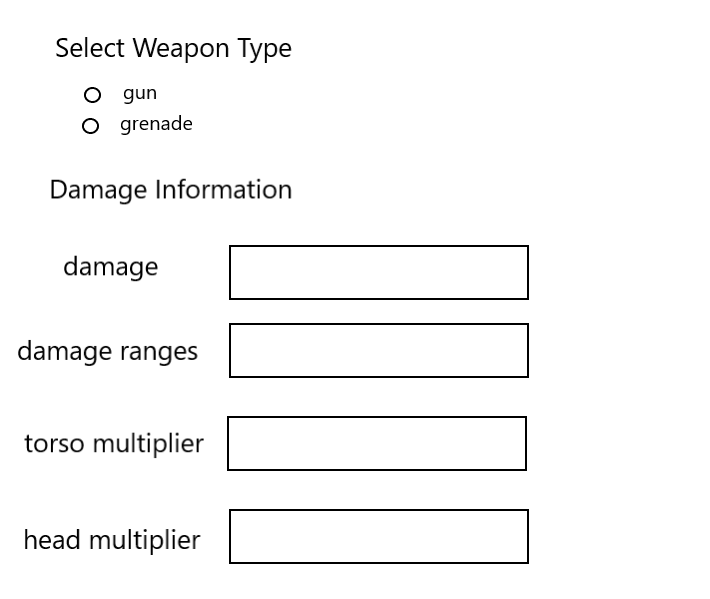
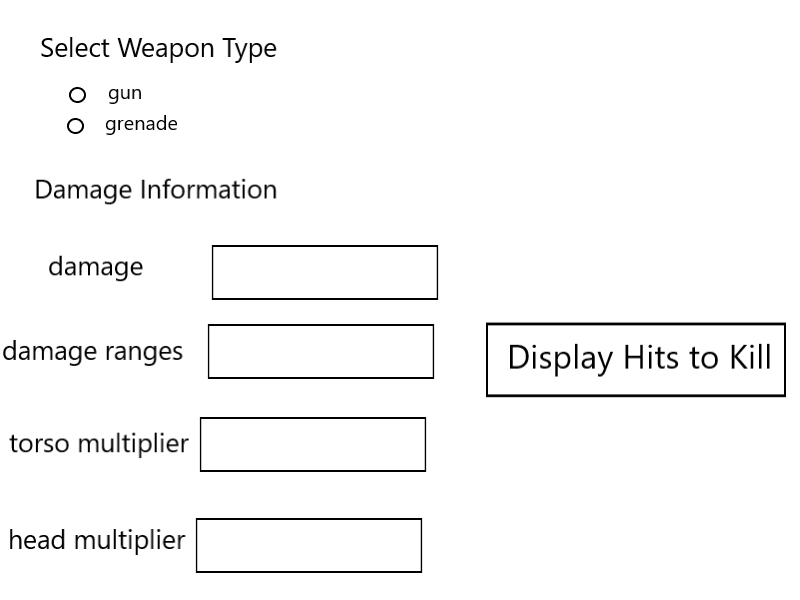
Created the main window for the GUI in main_GUI.py
Also changed the png which is a rough design for the main window. Added a button to display hits to kill.

As more features are added to this project, more buttons for options will be added with it.

diff --git a/PF_DamageRangesCalculator/PF_Packages/GUI/main_GUI.py b/PF_DamageRangesCalculator/PF_Packages/GUI/main_GUI.py
@@ -1,10 +1,39 @@
-import tkinter
+from typing import Tuple
+from tkinter import Tk, StringVar
 
 
-class main_GUI:
+class GUI:
     """The main GUI window.
-    This class will focus on the main window and widgets on it."""
+    This class will call upon all the other features that are used."""
+
+    def __init__(self) -> None:
+        self.win: Tk = Tk()     #represents the main window of the GUI
+
+        #Configure the  main window
+        self.win.title("Phantom Forces Damage Ranges App")  # name of the window
+        self.win.geometry("600x400")    # size of the window
 
 
+        self.weapon: StringVar = StringVar()    # stores result of radio button for weapon type
+        self.weapon.initialize("gun")
+        # Set default to gun being selected if use GUI without selecting a button
+
+        # For values below, might decide to just have them set when they actually are set
+        # Then just need to check for Attribute Error when running GUI without setting the values
+        self.damage: Tuple[float, float] = None
+        self.damage_ranges: Tuple[float, float] = None
+        self.head_multi: float = 0
+        self.torso_multi: float = 0
+        # Stores damage information, will be set to actual values later when using GUI
 
 
+    def createGUI(self) -> None:
+        """Creates the main window of the GUI and runs it."""
+
+        self.win.mainloop()
+
+
+if __name__ == '__main__':
+    # Testing GUI
+    gui = GUI()
+    gui.createGUI()
